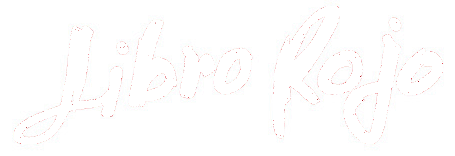
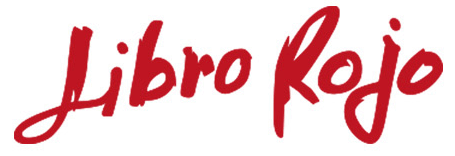
Tweak menu bar

Changed region(s): [[0.5846, 0.0256, 0.9846, 0.9231], [0.0308, 0.1282, 0.5538, 0.9231], [0.8308, 0.1026, 0.8923, 0.2051]]

diff --git a/src/layouts/Default.vue b/src/layouts/Default.vue
@@ -1,21 +1,12 @@
 <template>
   <div>
     <nav
-      class="navbar header is-primary"
+      class="navbar header"
       role="navigation"
       aria-label="main navigation"
     >
       <div class="navbar-brand">
-        <a
-          class="navbar-item"
-          href="/"
-        >
-        <img
-          src="/images/librorojo.png"
-          alt="Libro Rojo"
-        >
-        </a>
-
+        <g-link class="navbar-item" to="/"><img src="/images/librorojo.png" alt="logo" /></g-link>
         <div class="navbar-burger" :class="{ 'is-active': showNav }" @click="showNav = !showNav">
           <span />
           <span />
@@ -50,9 +41,18 @@
 </template>
 
 <style lang="scss" scoped>
-  /*.navbar-item img {
-    max-height: 3.5rem;
-  }*/
+  .navbar {
+    border-bottom: 6px solid #BE1421;
+  }
+
+  a.navbar-item {
+    padding-top: 0.1rem;
+    padding-bottom: 0.1rem;
+  }
+
+  .navbar-item img {
+    max-height: 3rem;
+  }
 </style>
 
 <script>

diff --git a/src/assets/style/_variables.scss b/src/assets/style/_variables.scss
@@ -2,7 +2,7 @@
 @import "~bulma/sass/utilities/_all";
 
 // Set your colors
-$primary: #ED1C2A;
+$primary: #BE1421;
 $primary-invert: findColorInvert($primary);
 $twitter: #4099FF;
 $twitter-invert: findColorInvert($twitter);
@@ -18,8 +18,7 @@ $colors: (
   "success": ($success, $success-invert),
   "warning": ($warning, $warning-invert),
   "danger": ($danger, $danger-invert),
-  "twitter": ($twitter, $twitter-invert),
-  "libro": ($primary-invert, $primary)
+  "twitter": ($twitter, $twitter-invert)
 );
 
 // Links
